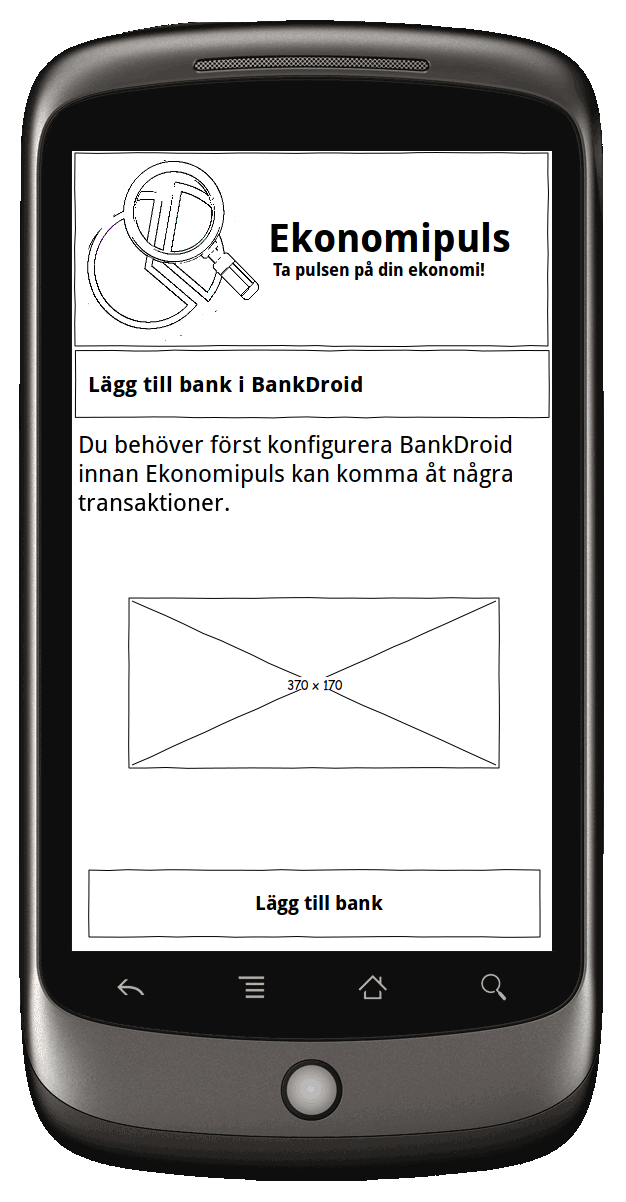
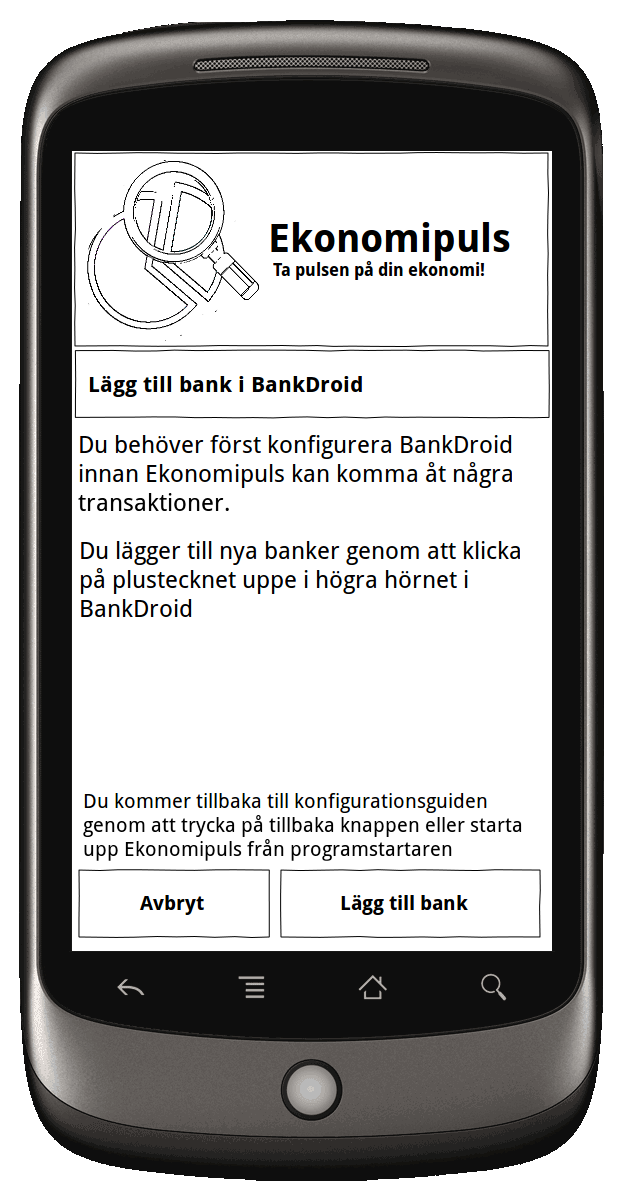
Revert "Updating mockup"
This reverts commit 44825b27668b4272aecef794afe618c9cda260f3.

	modified:   mockup/index.html
	modified:   mockup/pages/add_bank.png
	modified:   mockup/pages/deduplicate.png
	modified:   mockup/pages/initial_import.png
	modified:   mockup/pages/install_bankdroid.png
	modified:   mockup/pages/pair_applications.png
	modified:   mockup/pages/pick_accounts.png

diff --git a/mockup/index.html b/mockup/index.html
@@ -4,38 +4,28 @@
                     $('body').layout({ applyDefaultStyles: true,
                             minSize:140 });
                     });
-                </SCRIPT></head><body><div id="leftpanel" class="ui-layout-west"><div class="ThumbContainer"><a href="#wizard_install_bankdroid_page"><img src="pages/wizard_install_bankdroid.png" style="min-width: 100px;" /><hr /><span class="number">1/17</span> -
-                                    Wizard Install BankDroid</a></div><div class="ThumbContainer"><a href="#install_bankdroid_page"><img src="pages/install_bankdroid.png" style="min-width: 100px;" /><hr /><span class="number">2/17</span> -
-                                    Install BankDroid</a></div><div class="ThumbContainer"><a href="#wizard_pair_applications_page"><img src="pages/wizard_pair_applications.png" style="min-width: 100px;" /><hr /><span class="number">3/17</span> -
-                                    Wizard Pair Applications</a></div><div class="ThumbContainer"><a href="#pair_applications_page"><img src="pages/pair_applications.png" style="min-width: 100px;" /><hr /><span class="number">4/17</span> -
-                                    Pair Applications</a></div><div class="ThumbContainer"><a href="#wizard_add_bank_page"><img src="pages/wizard_add_bank.png" style="min-width: 100px;" /><hr /><span class="number">5/17</span> -
-                                    Wizard Add Bank</a></div><div class="ThumbContainer"><a href="#add_bank_page"><img src="pages/add_bank.png" style="min-width: 100px;" /><hr /><span class="number">6/17</span> -
-                                    Add Bank</a></div><div class="ThumbContainer"><a href="#wizard_pick_accounts_page"><img src="pages/wizard_pick_accounts.png" style="min-width: 100px;" /><hr /><span class="number">7/17</span> -
-                                    Wizard Pick Accounts</a></div><div class="ThumbContainer"><a href="#pick_accounts_page"><img src="pages/pick_accounts.png" style="min-width: 100px;" /><hr /><span class="number">8/17</span> -
-                                    Pick Accounts</a></div><div class="ThumbContainer"><a href="#wizard_initial_import_page"><img src="pages/wizard_initial_import.png" style="min-width: 100px;" /><hr /><span class="number">9/17</span> -
-                                    Wizard Initial Import</a></div><div class="ThumbContainer"><a href="#deduplicate_page"><img src="pages/deduplicate.png" style="min-width: 100px;" /><hr /><span class="number">10/17</span> -
-                                    Deduplicate</a></div><div class="ThumbContainer"><a href="#initial_import_page"><img src="pages/initial_import.png" style="min-width: 100px;" /><hr /><span class="number">11/17</span> -
-                                    Initial Import</a></div><div class="ThumbContainer"><a href="#initial_import_pick_tag_1_page"><img src="pages/initial_import_pick_tag_1.png" style="min-width: 100px;" /><hr /><span class="number">12/17</span> -
-                                    Initial Import Pick Tag 1</a></div><div class="ThumbContainer"><a href="#split_amount_page"><img src="pages/split_amount.png" style="min-width: 100px;" /><hr /><span class="number">13/17</span> -
-                                    Split Amount</a></div><div class="ThumbContainer"><a href="#initial_import_pick_tag_2_page"><img src="pages/initial_import_pick_tag_2.png" style="min-width: 100px;" /><hr /><span class="number">14/17</span> -
-                                    Initial Import Pick Tag 2</a></div><div class="ThumbContainer"><a href="#initial_import_w_tags_page"><img src="pages/initial_import_w_tags.png" style="min-width: 100px;" /><hr /><span class="number">15/17</span> -
-                                    Initial Import w/ Tags</a></div><div class="ThumbContainer"><a href="#report_view_overview_page"><img src="pages/report_view_overview.png" style="min-width: 100px;" /><hr /><span class="number">16/17</span> -
-                                    Report View Overview</a></div><div class="ThumbContainer"><a href="#report_view_overview_category_details_page"><img src="pages/report_view_overview_category_details.png" style="min-width: 100px;" /><hr /><span class="number">17/17</span> -
-                                    Report View Overview - Category Details</a></div></div><div id="main" class="ui-layout-center"><div class="Page" id="wizard_install_bankdroid_page"><div class="pageTitle">Wizard Install BankDroid<div class="MainNumber">
-                    Page 1/17</div></div><div class="ImageContainer"><img class="raster" style="max-width: 626px;" src="pages/wizard_install_bankdroid.png" usemap="#map_wizard_install_bankdroid" /></div><map name="map_wizard_install_bankdroid"><area shape="rect" coords="77,536,540,610" href="#install_bankdroid_page" title="Go to page 'Install BankDroid'" /></map></div><div class="Page" id="install_bankdroid_page"><div class="pageTitle">Install BankDroid<div class="MainNumber">
-                    Page 2/17</div></div><div class="ImageContainer"><img class="raster" style="max-width: 626px;" src="pages/install_bankdroid.png" usemap="#map_install_bankdroid" /></div><map name="map_install_bankdroid"><area shape="rect" coords="84,869,541,938" href="#wizard_pair_applications_page" title="Go to page 'Wizard Pair Applications'" /></map></div><div class="Page" id="wizard_pair_applications_page"><div class="pageTitle">Wizard Pair Applications<div class="MainNumber">
-                    Page 3/17</div></div><div class="ImageContainer"><img class="raster" style="max-width: 626px;" src="pages/wizard_pair_applications.png" usemap="#map_wizard_pair_applications" /></div><map name="map_wizard_pair_applications"><area shape="rect" coords="76,614,570.2000122070312,690" href="#pair_applications_page" title="Go to page 'Pair Applications'" /></map></div><div class="Page" id="pair_applications_page"><div class="pageTitle">Pair Applications<div class="MainNumber">
-                    Page 4/17</div></div><div class="ImageContainer"><img class="raster" style="max-width: 626px;" src="pages/pair_applications.png" usemap="#map_pair_applications" /></div><map name="map_pair_applications"><area shape="rect" coords="91,869,541,938" href="#wizard_add_bank_page" title="Go to page 'Wizard Add Bank'" /></map></div><div class="Page" id="wizard_add_bank_page"><div class="pageTitle">Wizard Add Bank<div class="MainNumber">
-                    Page 5/17</div></div><div class="ImageContainer"><img class="raster" style="max-width: 626px;" src="pages/wizard_add_bank.png" usemap="#map_wizard_add_bank" /></div><map name="map_wizard_add_bank"><area shape="rect" coords="74,698,546.4166870117188,772" href="#add_bank_page" title="Go to page 'Add Bank'" /></map></div><div class="Page" id="add_bank_page"><div class="pageTitle">Add Bank<div class="MainNumber">
-                    Page 6/17</div></div><div class="ImageContainer"><img class="raster" style="max-width: 626px;" src="pages/add_bank.png" usemap="#map_add_bank" /></div><map name="map_add_bank"><area shape="rect" coords="88,869,541,938" href="#wizard_pick_accounts_page" title="Go to page 'Wizard Pick Accounts'" /></map></div><div class="Page" id="wizard_pick_accounts_page"><div class="pageTitle">Wizard Pick Accounts<div class="MainNumber">
-                    Page 7/17</div></div><div class="ImageContainer"><img class="raster" style="max-width: 626px;" src="pages/wizard_pick_accounts.png" usemap="#map_wizard_pick_accounts" /></div><map name="map_wizard_pick_accounts"><area shape="rect" coords="73,778,545.4166870117188,852" href="#pick_accounts_page" title="Go to page 'Pick Accounts'" /></map></div><div class="Page" id="pick_accounts_page"><div class="pageTitle">Pick Accounts<div class="MainNumber">
-                    Page 8/17</div></div><div class="ImageContainer"><img class="raster" style="max-width: 626px;" src="pages/pick_accounts.png" usemap="#map_pick_accounts" /></div><map name="map_pick_accounts"><area shape="rect" coords="87,869,541,938" href="#wizard_initial_import_page" title="Go to page 'Wizard Initial Import'" /></map></div><div class="Page" id="wizard_initial_import_page"><div class="pageTitle">Wizard Initial Import<div class="MainNumber">
-                    Page 9/17</div></div><div class="ImageContainer"><img class="raster" style="max-width: 626px;" src="pages/wizard_initial_import.png" usemap="#map_wizard_initial_import" /></div><map name="map_wizard_initial_import"><area shape="rect" coords="73,864,545.4166870117188,938" href="#deduplicate_page" title="Go to page 'Deduplicate'" /></map></div><div class="Page" id="deduplicate_page"><div class="pageTitle">Deduplicate<div class="MainNumber">
-                    Page 10/17</div></div><div class="ImageContainer"><img class="raster" style="max-width: 626px;" src="pages/deduplicate.png" usemap="#map_deduplicate" /></div><map name="map_deduplicate"><area shape="rect" coords="80,877,539,946" href="#initial_import_page" title="Go to page 'Initial Import'" /></map></div><div class="Page" id="initial_import_page"><div class="pageTitle">Initial Import<div class="MainNumber">
-                    Page 11/17</div></div><div class="ImageContainer"><img class="raster" style="max-width: 626px;" src="pages/initial_import.png" usemap="#map_initial_import" /></div><map name="map_initial_import"><area shape="rect" coords="463,405,533,466" href="#initial_import_pick_tag_1_page" title="Go to page 'Initial Import Pick Tag 1'" /><area shape="rect" coords="76,876,548,945" href="#report_view_overview_page" title="Go to page 'Report View Overview'" /></map></div><div class="Page" id="initial_import_pick_tag_1_page"><div class="pageTitle">Initial Import Pick Tag 1<div class="MainNumber">
-                    Page 12/17</div></div><div class="ImageContainer"><img class="raster" style="max-width: 626px;" src="pages/initial_import_pick_tag_1.png" usemap="#map_initial_import_pick_tag_1" /></div><map name="map_initial_import_pick_tag_1"><area shape="rect" coords="96,825,302,912" href="#split_amount_page" title="Go to page 'Split Amount'" /><area shape="rect" coords="307,838,525,900" href="#initial_import_page" title="Go to page 'Initial Import'" /></map></div><div class="Page" id="split_amount_page"><div class="pageTitle">Split Amount<div class="MainNumber">
-                    Page 13/17</div></div><div class="ImageContainer"><img class="raster" style="max-width: 626px;" src="pages/split_amount.png" usemap="#map_split_amount" /></div><map name="map_split_amount"><area shape="rect" coords="108,509,523,571" href="#initial_import_pick_tag_2_page" title="Go to page 'Initial Import Pick Tag 2'" /></map></div><div class="Page" id="initial_import_pick_tag_2_page"><div class="pageTitle">Initial Import Pick Tag 2<div class="MainNumber">
-                    Page 14/17</div></div><div class="ImageContainer"><img class="raster" style="max-width: 626px;" src="pages/initial_import_pick_tag_2.png" usemap="#map_initial_import_pick_tag_2" /></div><map name="map_initial_import_pick_tag_2"><area shape="rect" coords="96,825,302,912" href="#split_amount_page" title="Go to page 'Split Amount'" /><area shape="rect" coords="307,838,525,900" href="#initial_import_w_tags_page" title="Go to page 'Initial Import w/ Tags'" /></map></div><div class="Page" id="initial_import_w_tags_page"><div class="pageTitle">Initial Import w/ Tags<div class="MainNumber">
-                    Page 15/17</div></div><div class="ImageContainer"><img class="raster" style="max-width: 626px;" src="pages/initial_import_w_tags.png" usemap="#map_initial_import_w_tags" /></div><map name="map_initial_import_w_tags"><area shape="rect" coords="463,405,533,466" href="#initial_import_pick_tag_1_page" title="Go to page 'Initial Import Pick Tag 1'" /><area shape="rect" coords="76,876,548,945" href="#report_view_overview_page" title="Go to page 'Report View Overview'" /></map></div><div class="Page" id="report_view_overview_page"><div class="pageTitle">Report View Overview<div class="MainNumber">
-                    Page 16/17</div></div><div class="ImageContainer"><img class="raster" style="max-width: 626px;" src="pages/report_view_overview.png" usemap="#map_report_view_overview" /></div><map name="map_report_view_overview"><area shape="rect" coords="64,667,533,741" href="#report_view_overview_category_details_page" title="Go to page 'Report View Overview - Category Details'" /><area shape="rect" coords="92,274,512,669" href="#report_view_overview_category_details_page" title="Go to page 'Report View Overview - Category Details'" /></map></div><div class="Page" id="report_view_overview_category_details_page"><div class="pageTitle">Report View Overview - Category Details<div class="MainNumber">
-                    Page 17/17</div></div><div class="ImageContainer"><img class="raster" style="max-width: 626px;" src="pages/report_view_overview_category_details.png" usemap="#map_report_view_overview_category_details" /></div><map name="map_report_view_overview_category_details"></map></div></div></body></html>
+                </SCRIPT></head><body><div id="leftpanel" class="ui-layout-west"><div class="ThumbContainer"><a href="#wizard_install_bankdroid_page"><img src="pages/wizard_install_bankdroid.png" style="min-width: 100px;" /><hr /><span class="number">1/12</span> -
+                                    Wizard Install BankDroid</a></div><div class="ThumbContainer"><a href="#install_bankdroid_page"><img src="pages/install_bankdroid.png" style="min-width: 100px;" /><hr /><span class="number">2/12</span> -
+                                    Install BankDroid</a></div><div class="ThumbContainer"><a href="#wizard_pair_applications_page"><img src="pages/wizard_pair_applications.png" style="min-width: 100px;" /><hr /><span class="number">3/12</span> -
+                                    Wizard Pair Applications</a></div><div class="ThumbContainer"><a href="#pair_applications_page"><img src="pages/pair_applications.png" style="min-width: 100px;" /><hr /><span class="number">4/12</span> -
+                                    Pair Applications</a></div><div class="ThumbContainer"><a href="#wizard_add_bank_page"><img src="pages/wizard_add_bank.png" style="min-width: 100px;" /><hr /><span class="number">5/12</span> -
+                                    Wizard Add Bank</a></div><div class="ThumbContainer"><a href="#add_bank_page"><img src="pages/add_bank.png" style="min-width: 100px;" /><hr /><span class="number">6/12</span> -
+                                    Add Bank</a></div><div class="ThumbContainer"><a href="#wizard_pick_accounts_page"><img src="pages/wizard_pick_accounts.png" style="min-width: 100px;" /><hr /><span class="number">7/12</span> -
+                                    Wizard Pick Accounts</a></div><div class="ThumbContainer"><a href="#pick_accounts_page"><img src="pages/pick_accounts.png" style="min-width: 100px;" /><hr /><span class="number">8/12</span> -
+                                    Pick Accounts</a></div><div class="ThumbContainer"><a href="#wizard_initial_import_page"><img src="pages/wizard_initial_import.png" style="min-width: 100px;" /><hr /><span class="number">9/12</span> -
+                                    Wizard Initial Import</a></div><div class="ThumbContainer"><a href="#deduplicate_page"><img src="pages/deduplicate.png" style="min-width: 100px;" /><hr /><span class="number">10/12</span> -
+                                    Deduplicate</a></div><div class="ThumbContainer"><a href="#initial_import_page"><img src="pages/initial_import.png" style="min-width: 100px;" /><hr /><span class="number">11/12</span> -
+                                    Initial Import</a></div><div class="ThumbContainer"><a href="#initial_import_pick_tag_page"><img src="pages/initial_import_pick_tag.png" style="min-width: 100px;" /><hr /><span class="number">12/12</span> -
+                                    Initial Import Pick Tag</a></div></div><div id="main" class="ui-layout-center"><div class="Page" id="wizard_install_bankdroid_page"><div class="pageTitle">Wizard Install BankDroid<div class="MainNumber">
+                    Page 1/12</div></div><div class="ImageContainer"><img class="raster" style="max-width: 626px;" src="pages/wizard_install_bankdroid.png" usemap="#map_wizard_install_bankdroid" /></div><map name="map_wizard_install_bankdroid"><area shape="rect" coords="77,536,540,610" href="#install_bankdroid_page" title="Go to page 'Install BankDroid'" /></map></div><div class="Page" id="install_bankdroid_page"><div class="pageTitle">Install BankDroid<div class="MainNumber">
+                    Page 2/12</div></div><div class="ImageContainer"><img class="raster" style="max-width: 626px;" src="pages/install_bankdroid.png" usemap="#map_install_bankdroid" /></div><map name="map_install_bankdroid"><area shape="rect" coords="78,870,270,939" href="#wizard_install_bankdroid_page" title="Go to page 'Wizard Install BankDroid'" /><area shape="rect" coords="280,869,541,938" href="#wizard_pair_applications_page" title="Go to page 'Wizard Pair Applications'" /></map></div><div class="Page" id="wizard_pair_applications_page"><div class="pageTitle">Wizard Pair Applications<div class="MainNumber">
+                    Page 3/12</div></div><div class="ImageContainer"><img class="raster" style="max-width: 626px;" src="pages/wizard_pair_applications.png" usemap="#map_wizard_pair_applications" /></div><map name="map_wizard_pair_applications"><area shape="rect" coords="76,614,570.2000122070312,690" href="#pair_applications_page" title="Go to page 'Pair Applications'" /></map></div><div class="Page" id="pair_applications_page"><div class="pageTitle">Pair Applications<div class="MainNumber">
+                    Page 4/12</div></div><div class="ImageContainer"><img class="raster" style="max-width: 626px;" src="pages/pair_applications.png" usemap="#map_pair_applications" /></div><map name="map_pair_applications"><area shape="rect" coords="78,869,270,938" href="#wizard_pair_applications_page" title="Go to page 'Wizard Pair Applications'" /><area shape="rect" coords="280,869,541,938" href="#wizard_add_bank_page" title="Go to page 'Wizard Add Bank'" /></map></div><div class="Page" id="wizard_add_bank_page"><div class="pageTitle">Wizard Add Bank<div class="MainNumber">
+                    Page 5/12</div></div><div class="ImageContainer"><img class="raster" style="max-width: 626px;" src="pages/wizard_add_bank.png" usemap="#map_wizard_add_bank" /></div><map name="map_wizard_add_bank"><area shape="rect" coords="74,698,546.4166870117188,772" href="#add_bank_page" title="Go to page 'Add Bank'" /></map></div><div class="Page" id="add_bank_page"><div class="pageTitle">Add Bank<div class="MainNumber">
+                    Page 6/12</div></div><div class="ImageContainer"><img class="raster" style="max-width: 626px;" src="pages/add_bank.png" usemap="#map_add_bank" /></div><map name="map_add_bank"><area shape="rect" coords="78,869,270,938" href="#wizard_add_bank_page" title="Go to page 'Wizard Add Bank'" /><area shape="rect" coords="280,869,541,938" href="#wizard_pick_accounts_page" title="Go to page 'Wizard Pick Accounts'" /></map></div><div class="Page" id="wizard_pick_accounts_page"><div class="pageTitle">Wizard Pick Accounts<div class="MainNumber">
+                    Page 7/12</div></div><div class="ImageContainer"><img class="raster" style="max-width: 626px;" src="pages/wizard_pick_accounts.png" usemap="#map_wizard_pick_accounts" /></div><map name="map_wizard_pick_accounts"><area shape="rect" coords="73,778,545.4166870117188,852" href="#pick_accounts_page" title="Go to page 'Pick Accounts'" /></map></div><div class="Page" id="pick_accounts_page"><div class="pageTitle">Pick Accounts<div class="MainNumber">
+                    Page 8/12</div></div><div class="ImageContainer"><img class="raster" style="max-width: 626px;" src="pages/pick_accounts.png" usemap="#map_pick_accounts" /></div><map name="map_pick_accounts"><area shape="rect" coords="78,869,312,938" href="#wizard_pick_accounts_page" title="Go to page 'Wizard Pick Accounts'" /><area shape="rect" coords="316,869,541,938" href="#wizard_initial_import_page" title="Go to page 'Wizard Initial Import'" /></map></div><div class="Page" id="wizard_initial_import_page"><div class="pageTitle">Wizard Initial Import<div class="MainNumber">
+                    Page 9/12</div></div><div class="ImageContainer"><img class="raster" style="max-width: 626px;" src="pages/wizard_initial_import.png" usemap="#map_wizard_initial_import" /></div><map name="map_wizard_initial_import"><area shape="rect" coords="73,864,545.4166870117188,938" href="#deduplicate_page" title="Go to page 'Deduplicate'" /></map></div><div class="Page" id="deduplicate_page"><div class="pageTitle">Deduplicate<div class="MainNumber">
+                    Page 10/12</div></div><div class="ImageContainer"><img class="raster" style="max-width: 626px;" src="pages/deduplicate.png" usemap="#map_deduplicate" /></div><map name="map_deduplicate"><area shape="rect" coords="80,877,539,946" href="#initial_import_page" title="Go to page 'Initial Import'" /></map></div><div class="Page" id="initial_import_page"><div class="pageTitle">Initial Import<div class="MainNumber">
+                    Page 11/12</div></div><div class="ImageContainer"><img class="raster" style="max-width: 626px;" src="pages/initial_import.png" usemap="#map_initial_import" /></div><map name="map_initial_import"><area shape="rect" coords="350,522,528,583" href="#initial_import_pick_tag_page" title="Go to page 'Initial Import Pick Tag'" /></map></div><div class="Page" id="initial_import_pick_tag_page"><div class="pageTitle">Initial Import Pick Tag<div class="MainNumber">
+                    Page 12/12</div></div><div class="ImageContainer"><img class="raster" style="max-width: 626px;" src="pages/initial_import_pick_tag.png" usemap="#map_initial_import_pick_tag" /></div><map name="map_initial_import_pick_tag"><area shape="rect" coords="107,838,299,900" href="#initial_import_page" title="Go to page 'Initial Import'" /></map></div></div></body></html>
